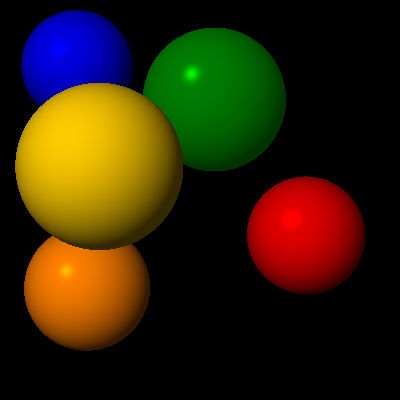
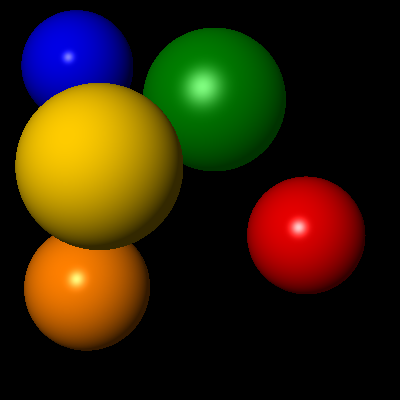
Fix Phong illumination model

diff --git a/Raytracer_1/Code/scene.cpp b/Raytracer_1/Code/scene.cpp
@@ -75,46 +75,60 @@ Color Scene::trace(Ray const &ray)
     *        pow(a,b)           a to the power of b
     ****************************************************/
 
-    Color color = material.color;
-    double r = color.r;
-    double g = color.g;
-    double b = color.b;
-    double kd = material.kd;
-    double ks = material.ks;
-    double ka = material.ka;
+    Color Ia = material.color * material.ka;
+    Color Id;
+    Color Is;
 
-    // grab light source
-    LightPtr firstLight = lights.front();
-    Light light = *firstLight.get();
+    for (auto const light : lights) {
+        Vector R = 2 * ((light->position - hit).normalized()).dot(N.normalized()) * N.normalized() - (light->position - hit).normalized();
+        Id += fmax(0, ((light->position - hit).normalized()).dot(N.normalized())) * material.color * light->color * material.kd;
+        Is += pow(fmax(0, R.dot(V)), material.n) * light->color * material.ks;
+    }
 
-    // compute vector l. subtract intersection point of the ray and surface
-    // from the light source position. book page 82.
-    Vector l = light.position - hit;
-
-    // Lambertian Shading
-    // color.r = lambertianShading(r * kd, light.color.r, N, l);
-    // color.g = lambertianShading(g * kd, light.color.g, N, l);
-    // color.b = lambertianShading(b * kd, light.color.b, N, l);
-
-    // vector h is the sum of vectors v and l, normalized. book page 83.
-    Vector H = V + l;
-    H.normalize();
-
-    l.normalize();
-
-    // Phong Shading
-    double p = 200.0;
-    color.r = phongShading(r * kd, light.color.r, N, l, H, r * ks, p);
-    color.g = phongShading(g * kd, light.color.g, N, l, H, g * ks, p);
-    color.b = phongShading(b * kd, light.color.b, N, l, H, b * ks, p);
-
-    // Add Ambient Lighting
-    double intensity = 1.0;
-    color.r = color.r + r * intensity * ka;
-    color.g = color.g + g * intensity * ka;
-    color.b = color.b + b * intensity * ka;
+    Color color = Ia + Id + Is;
 
     return color;
+
+    // Color color = material.color;
+    // double r = color.r;
+    // double g = color.g;
+    // double b = color.b;
+    // double kd = material.kd;
+    // double ks = material.ks;
+    // double ka = material.ka;
+
+    // // grab light source
+    // LightPtr firstLight = lights.front();
+    // Light light = *firstLight.get();
+
+    // // compute vector l. subtract intersection point of the ray and surface
+    // // from the light source position. book page 82.
+    // Vector l = light.position - hit;
+
+    // // Lambertian Shading
+    // // color.r = lambertianShading(r * kd, light.color.r, N, l);
+    // // color.g = lambertianShading(g * kd, light.color.g, N, l);
+    // // color.b = lambertianShading(b * kd, light.color.b, N, l);
+
+    // // vector h is the sum of vectors v and l, normalized. book page 83.
+    // Vector H = V + l;
+    // H.normalize();
+
+    // l.normalize();
+
+    // // Phong Shading
+    // double p = 200.0;
+    // color.r = phongShading(r * kd, light.color.r, N, l, H, r * ks, p);
+    // color.g = phongShading(g * kd, light.color.g, N, l, H, g * ks, p);
+    // color.b = phongShading(b * kd, light.color.b, N, l, H, b * ks, p);
+
+    // // Add Ambient Lighting
+    // double intensity = 1.0;
+    // color.r = color.r + r * intensity * ka;
+    // color.g = color.g + g * intensity * ka;
+    // color.b = color.b + b * intensity * ka;
+
+    // return color;
 }
 
 void Scene::render(Image &img)
